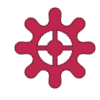
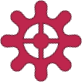
update gear and interceptor components

diff --git a/src/components/Board.tsx b/src/components/Board.tsx
@@ -15,6 +15,8 @@ import { Gear } from './Gear';
 import { TumblerGear } from '../logic/TumblerGear';
 import { GearBit } from './GearBit';
 import { TumblerGearBit } from '../logic/TumblerGearBit';
+import { TumblerInterceptor } from '../logic/TumblerInterceptor';
+import { Interceptor } from './Interceptor';
 
 
 interface BoardProps {
@@ -32,7 +34,9 @@ export const Board : React.FC<BoardProps> = ({columns, rows, test}) => {
         ret.setPart(TumblerPartType.Ramp, 3, 2, true);
         ret.setPart(TumblerPartType.Ramp, 1, 2, false);
         ret.setPart(TumblerPartType.Crossover, 2, 3);
-        ret.setPart(TumblerPartType.Ramp, 3, 4, true);
+        ret.setPart(TumblerPartType.Bit, 3, 4, true);
+        ret.setPart(TumblerPartType.Interceptor, 4, 5);
+        ret.setPart(TumblerPartType.Gear, 4, 6);
         ret.setPart(TumblerPartType.Ramp, 1, 4, false);
         ret.setPart(TumblerPartType.Ramp, 2, 5, true);
         ret.setPart(TumblerPartType.Ramp, 1, 6, false);
@@ -90,7 +94,8 @@ export const Board : React.FC<BoardProps> = ({columns, rows, test}) => {
                     return <GearBit bit={part as TumblerGearBit}></GearBit>
                 case TumblerPartType.Gear:
                     return <Gear gear={part as TumblerGear}></Gear>;
-                case TumblerPartType.Interceptor:      
+                case TumblerPartType.Interceptor:
+                    return <Interceptor interceptor={part as TumblerInterceptor}></Interceptor>;
                 default:
                     return <NoPart></NoPart>;
             }

diff --git a/src/components/Interceptor.tsx b/src/components/Interceptor.tsx
@@ -1,0 +1,28 @@
+import { useEffect } from "react";
+import { TumblerInterceptor } from "../logic/TumblerInterceptor";
+import { TumblerEvent } from "../logic/TumblerTypes";
+
+interface InterceptorProps {
+    interceptor: TumblerInterceptor,
+}
+
+export const Interceptor : React.FC<InterceptorProps> = ({interceptor}) => {
+
+    useEffect(() => {
+        const onObserveEvent = async (evt: TumblerEvent) => {
+            console.log(`interceptor event: ${TumblerEvent[evt]}`);
+
+            await new Promise(r => setTimeout(r, 100));
+            
+            return;
+        }
+
+        interceptor.addObserver({reportEvent: onObserveEvent})
+    }, [interceptor]);
+
+    return (
+        <div className={`interceptor-outer`}>
+            <img className={`interceptor`} src='./interceptor.png' alt='interceptor'></img>
+        </div>
+    );
+}

diff --git a/src/logic/TumblerInterceptor.ts b/src/logic/TumblerInterceptor.ts
@@ -4,7 +4,7 @@ import { TumblerBallColor, TumblerEvent, TumblerPartType, TumblerResult } from "
 export class TumblerInterceptor extends TumblerPart {
 
     constructor() {
-        super(TumblerPartType.Ramp, new EmptyReceiver(), new EmptyReceiver());
+        super(TumblerPartType.Interceptor, new EmptyReceiver(), new EmptyReceiver());
 
         this.leftEntrance = this.rightEntrance = {
             putBall: async (color : TumblerBallColor): Promise<TumblerResult> => {

diff --git a/src/components/GearBit.css b/src/components/GearBit.css
@@ -3,6 +3,21 @@
     transition-duration: 0.4s;
     transition-timing-function: cubic-bezier(0.92, 0.29, 0.74, 1.29);
     transition-delay: 0s;
+    position: absolute;
+    top: -42px;
+    left: -42px;
+}
+
+.gearbit-background {
+    position: absolute;
+    top: -40px;
+    left: -40px;
+}
+
+.gearbit-outer {
+    /*width: 84px;
+    height: 84px;*/
+    position: relative;
 }
 
 .gearbit.gearbit-tilt {

diff --git a/src/components/Gear.css b/src/components/Gear.css
@@ -3,8 +3,15 @@
     transition-duration: 0.4s;
     transition-timing-function: cubic-bezier(0.92, 0.29, 0.74, 1.29);
     transition-delay: 0s;
+    transform: rotateZ(-22.5deg);
+    position: absolute;
+}
+
+.gear-outer {
+    width: 82px;
+    height: 82px;
 }
 
 .gear.gear-tilt {
-    transform: rotateZ(-90deg);
+    transform: rotateZ(-112.5deg);
 }

diff --git a/src/components/GearBit.tsx b/src/components/GearBit.tsx
@@ -40,6 +40,7 @@ export const GearBit : React.FC<GearBitProps> = ({bit}) => {
 
     return (
         <div className={`gearbit-outer`}>
+            <img className={`gearbit-background`} src='./emptypart.png' alt='empty'></img>
             <img className={`gearbit`} src='./gearbit.png' alt='gearbit' ref={imgRef}></img>
         </div>
     );
